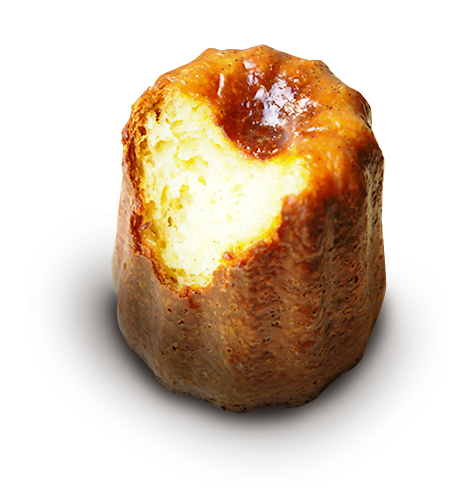
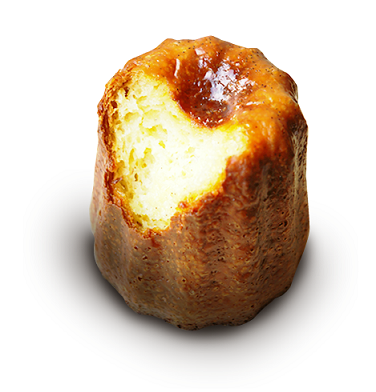
rendu image plus petite et ajoutés boutons

Changed region(s): [[0.5851, 0.1837, 0.6729, 0.2449], [0.2633, 0.2143, 0.2926, 0.2755], [0.5266, 0.1531, 0.5559, 0.1837]]

diff --git a/index.html b/index.html
@@ -6,15 +6,23 @@
     <title>Canelé Clicker</title>
 
     <link rel="stylesheet" href="style.css">
-
+    <script src="script.js">
 </head>
 
 <body>
 
+<div>
   <div class="base">
-    <h1>Canelé Clicker</h1>
+    <h1>Canelé Clicker</h2>
     <img src="main_bg.png">
   </div>
+  <h2>Canelés disponibles</h2>
+</div>
+
+<div class="boutons">
+  <button type=button>+1</button>
+  <button type=button>Acheter un four</button>
+</div>
 
 </body>
 </html>

diff --git a/style.css b/style.css
@@ -1,4 +1,5 @@
 .base {
   text-align: center;
   margin-top: 50px;
+  font-family: fantasy;
 }
